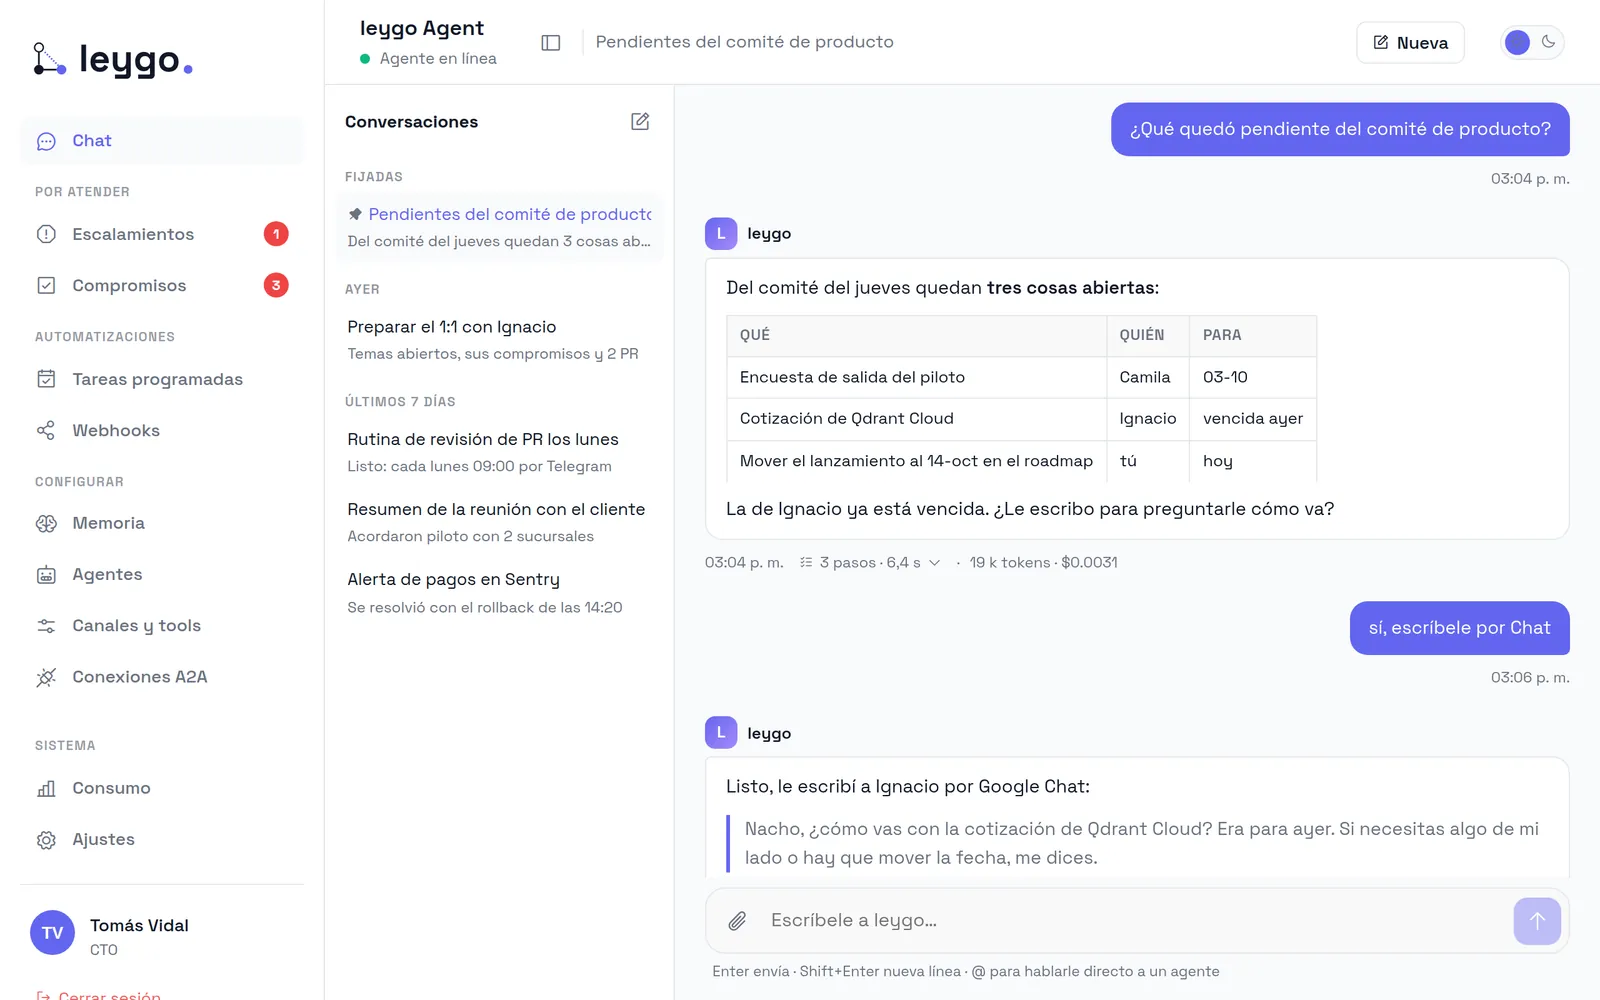
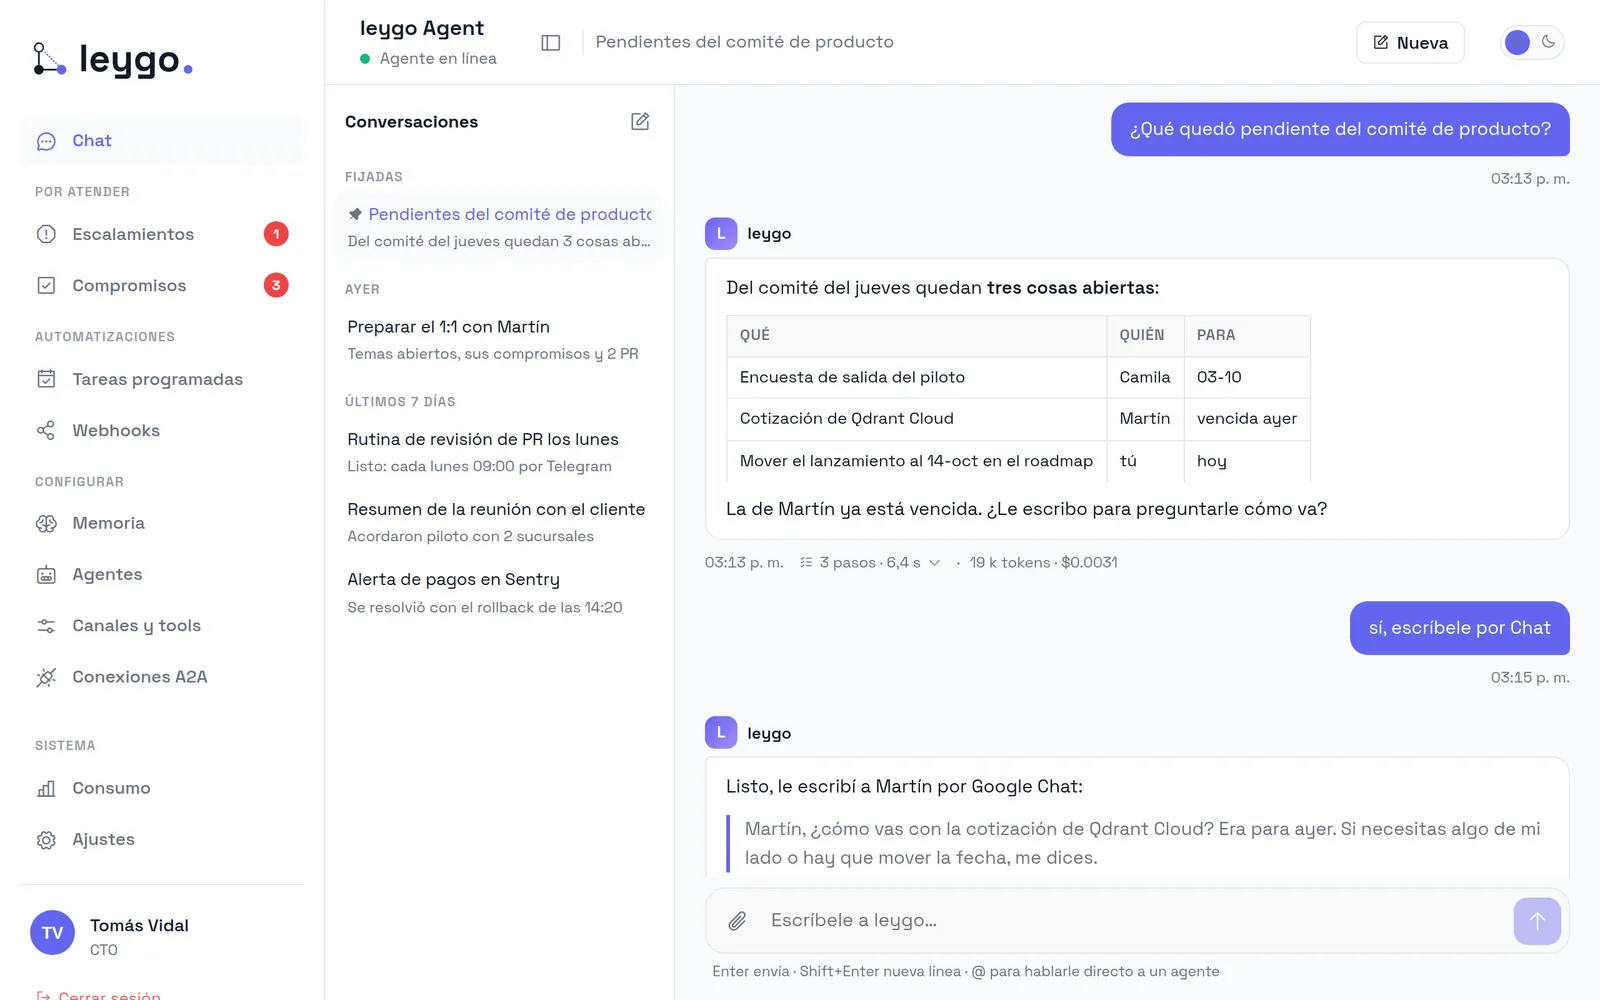
Landing: ejemplos con Martín en vez de Ignacio (textos y capturas)
Claude-Session: https://claude.ai/code/session_018DfQNaFRJBWMG7khHHtaM5

diff --git a/index.html b/index.html
@@ -133,7 +133,7 @@
             <p><b>Buenos días. Hoy tienes 3 reuniones:</b></p>
             <ul>
               <li><time>09:30</time> Comité de producto</li>
-              <li><time>12:00</time> 1:1 con Ignacio <em>choca con tu bloque de foco</em></li>
+              <li><time>12:00</time> 1:1 con Martín <em>choca con tu bloque de foco</em></li>
               <li><time>16:00</time> Demo con Retail Andes</li>
             </ul>
             <p><b>Correo:</b> 14 sin leer, 2 te necesitan (propuesta de Retail Andes y el contrato de Qdrant).</p>
@@ -147,11 +147,11 @@
             <p>Saca de reuniones, correos y chats lo que prometiste y lo que te deben. Si alguien se atrasa, te propone el recordatorio.</p>
           </div>
           <div class="muestra muestra-lista" aria-label="Ejemplo de lista de compromisos">
-            <div class="ml-fila vencido"><span class="ml-quien">Te debe Ignacio</span><span class="ml-que">Cotizar Qdrant Cloud</span><span class="ml-cuando">venció ayer</span></div>
+            <div class="ml-fila vencido"><span class="ml-quien">Te debe Martín</span><span class="ml-que">Cotizar Qdrant Cloud</span><span class="ml-cuando">venció ayer</span></div>
             <div class="ml-fila"><span class="ml-quien tuyo">Tú</span><span class="ml-que">Mover el lanzamiento en el roadmap</span><span class="ml-cuando">hoy</span></div>
             <div class="ml-fila"><span class="ml-quien">Te debe Camila</span><span class="ml-que">Encuesta de salida del piloto</span><span class="ml-cuando">viernes</span></div>
             <div class="ml-propuesta">
-              <p><b>¿Le escribo a Ignacio?</b> "Nacho, ¿cómo vas con la cotización de Qdrant Cloud? Era para ayer."</p>
+              <p><b>¿Le escribo a Martín?</b> "Martín, ¿cómo vas con la cotización de Qdrant Cloud? Era para ayer."</p>
               <div class="ml-acciones"><span class="mini-boton">No</span><span class="mini-boton si">Enviar por Chat</span></div>
             </div>
           </div>

diff --git a/app.js b/app.js
@@ -16,7 +16,7 @@
         { t: 'pausa', ms: 500 },
         { t: 'viaje', de: 'google', a: 'coord' },
         { t: 'viaje', de: 'coord', a: 'telegram' },
-        { t: 'msg', de: 'leygo', texto: 'Mañana tienes tres reuniones: 09:30 comité de producto, 12:00 1:1 con Ignacio y 16:00 demo con un cliente. La de las 12 choca con tu bloque de foco.' },
+        { t: 'msg', de: 'leygo', texto: 'Mañana tienes tres reuniones: 09:30 comité de producto, 12:00 1:1 con Martín y 16:00 demo con un cliente. La de las 12 choca con tu bloque de foco.' },
       ],
     },
     correo: {
